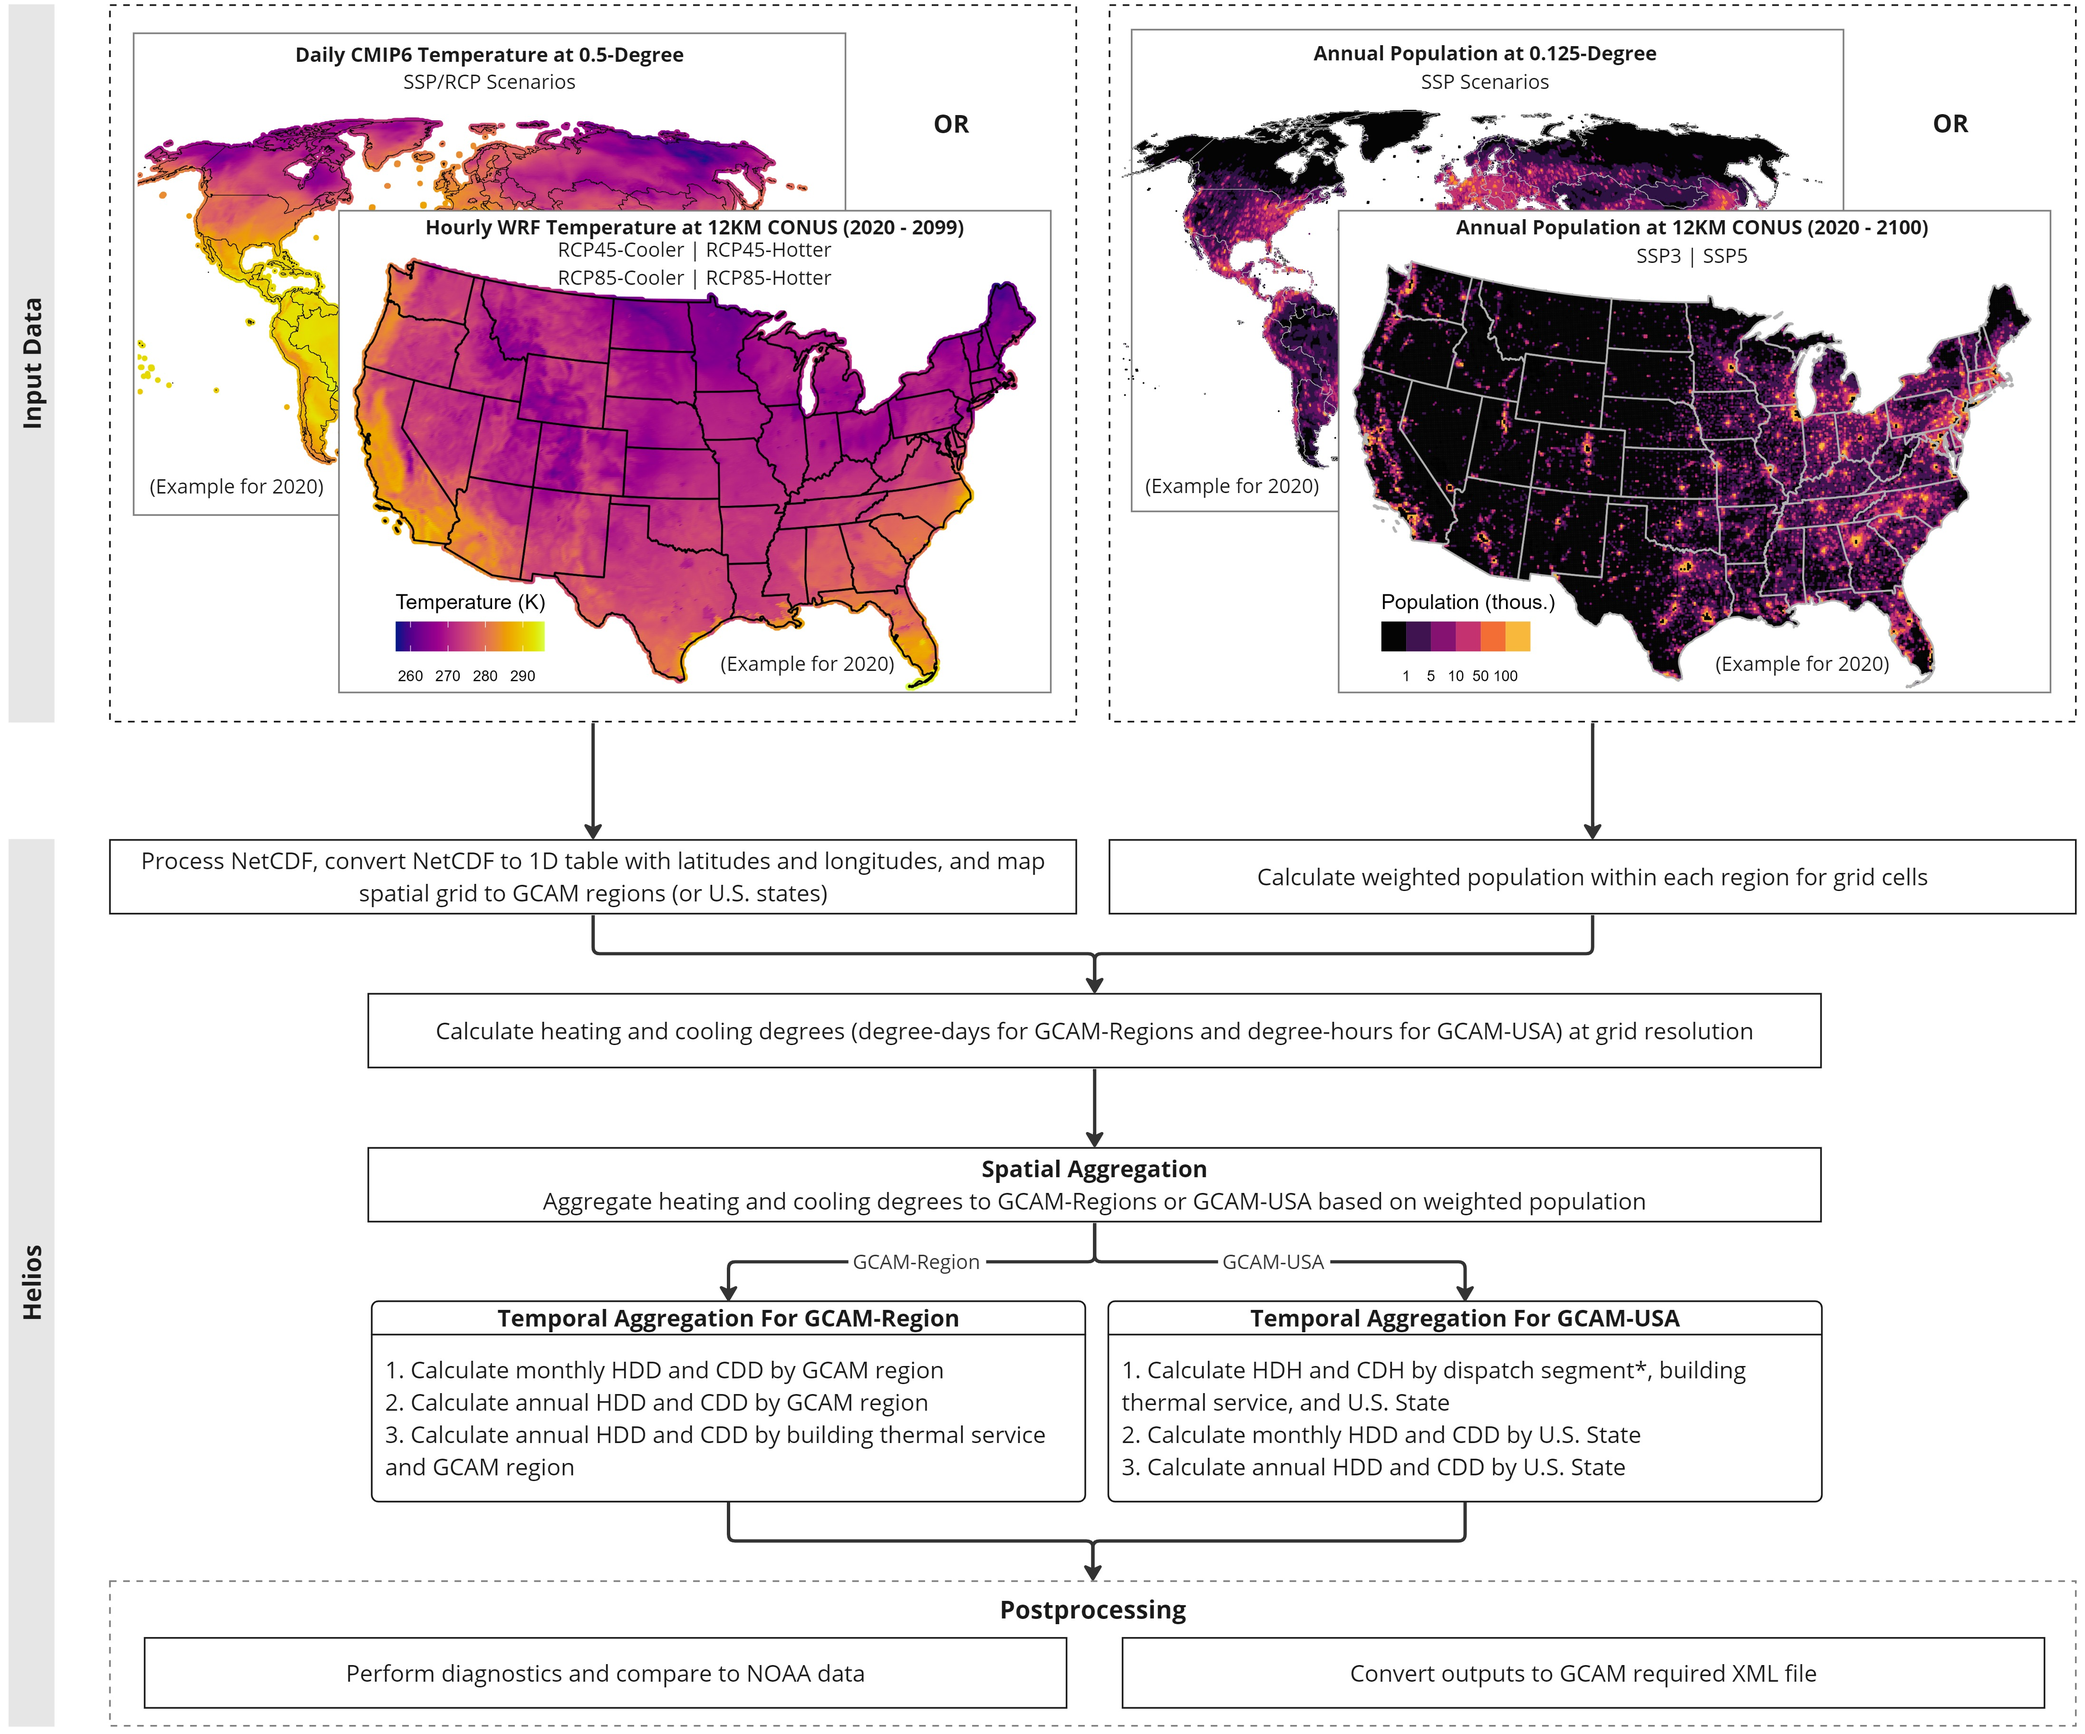
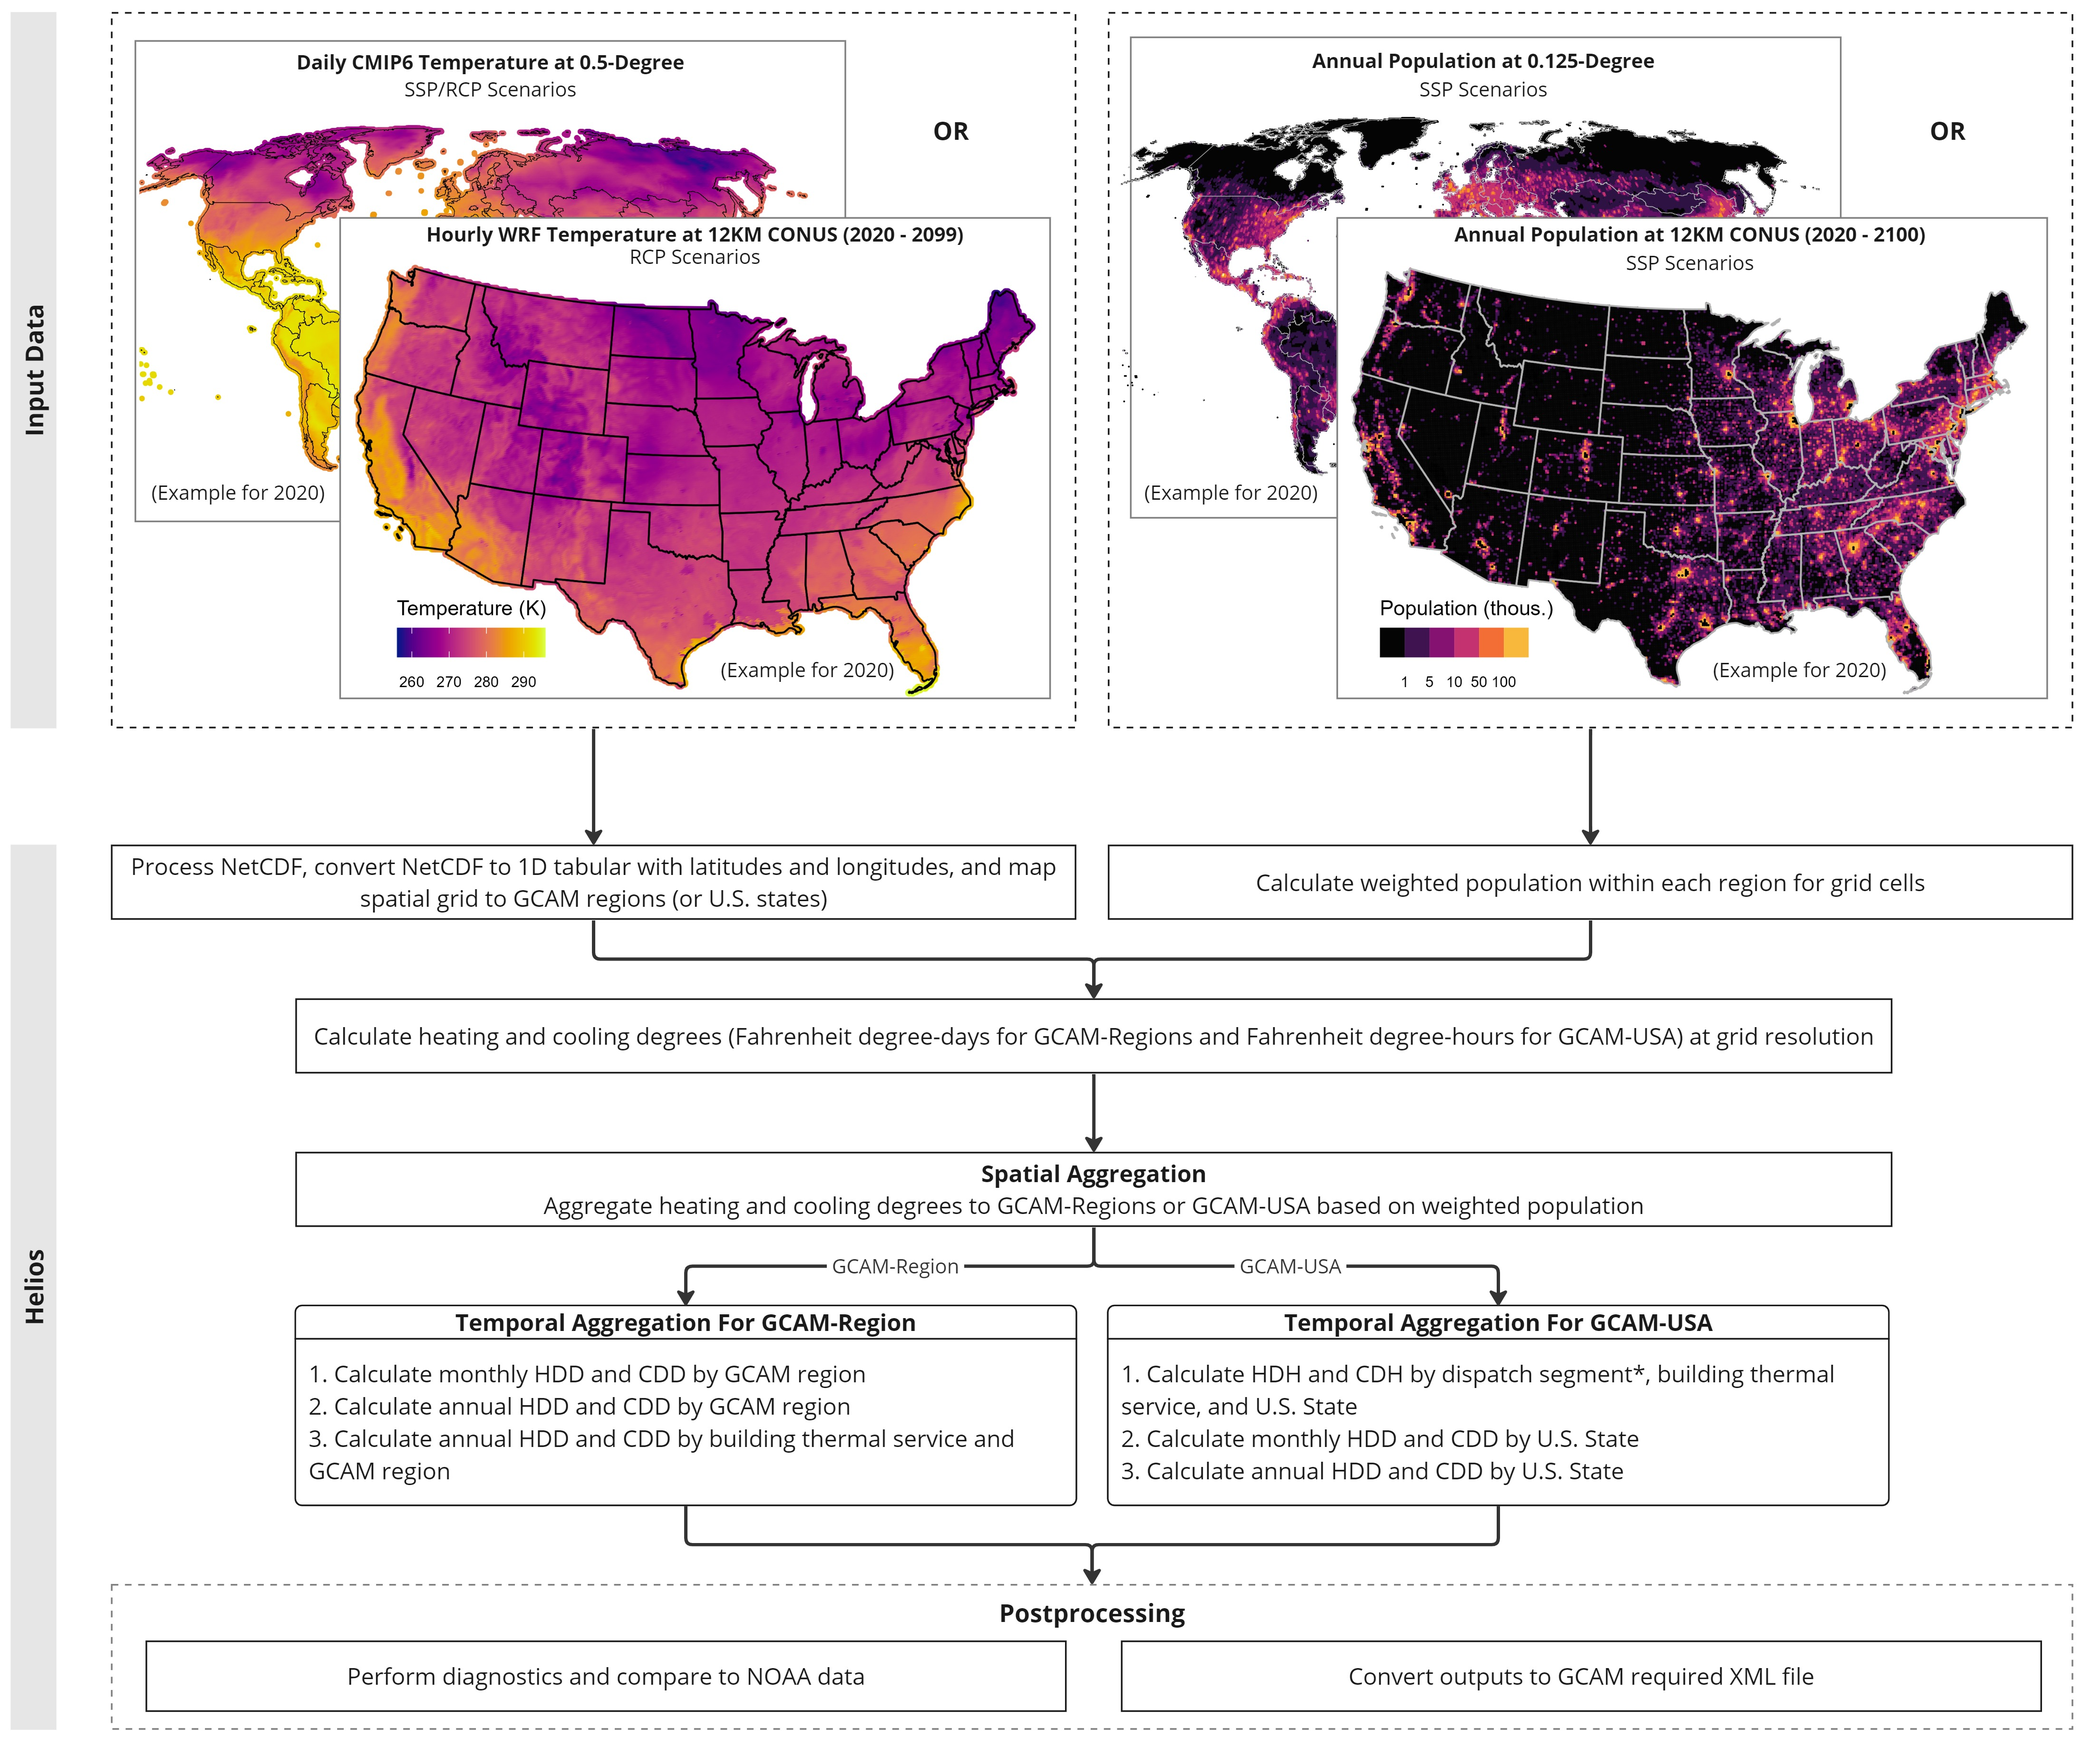
Update paper

diff --git a/paper/paper.md b/paper/paper.md
@@ -35,13 +35,13 @@ bibliography: paper.bib
 
 # Statement of Field
 
-Heating and cooling degree days are commonly used as meteorological indices in the energy system to measure the temperature deviations from the reference temperature over time. These indices are widely calculated at point scale rather than spatial scale. With the increasing availability of spatially distributed climate data, few tools are developed to access and post-process it from the original climate data format into tabular format, such as `Climate4R` [@iturbide2019].However, there are rarely well-documented and open-source tools that streamline the calculation of population-weighted HDD and CDD at user-defined spatiotemporal resolutions or electricity dispatch sectors defined in GCAM, directly using gridded climate and population data. `helios` is developed to integrate these workflows and standardize the output for easy usage within and beyond GCAM applications.
+Heating and cooling degree days are commonly used as meteorological indices in the energy system to measure the temperature deviations from the reference temperature over time. These indices are widely calculated at point scale rather than spatial scale. With the increasing availability of spatially distributed climate data, few tools are developed to access and post-process the raw climate data format into tabular format, such as `Climate4R` [@iturbide2019].However, there are rarely well-documented and open-source tools that streamline the calculation of population-weighted HDD and CDD at user-defined spatiotemporal resolutions or electricity dispatch sectors defined in GCAM, directly using gridded climate and population data. `helios` is developed to integrate these workflows and standardize the output for easy usage within and beyond GCAM applications.
 
 # Design and Functionality
 
 `helios` is designed to provide heating and cooling degrees to GCAM (or GCAM-USA) at two spatiotemporal scales: (1) HDH and CDH for the U.S. States for dispatch segments by building thermal service (for GCAM-USA); (2) annual HDD and CDD for GCAM's 32 geopolitical regions at 5-year time step by building thermal service (for GCAM-Regions). Beyond providing information for GCAM, `helios` can serve as a general tool to calculate heating and cooling degrees at a monthly time step and various spatial scales (e.g., country, basin). The use of `helios` requires users to provide information about the input files, such as the climate model source for climate data and the variable name for temperature. For example, the ISIMIP-CMIP data uses "tas" for the variable name for temperature while the WRF data uses "T2". Figure 1 shows the workflow for both GCAM-USA and GCAM-Regions. More details can be accessed in the `helios` [documentation](https://jgcri.github.io/helios/index.html) page on Github.
 
-![The Helios workflow using two input data examples of global and CONUS data. Helios takes in various temperature and population data at regional or global scales and processes the data into population-weighted heating and cooling degrees at a user-defined spatiotemporal scale. \label{fig:1}](Fig1_helios_workflow.jpg)
+![An example of the Helios workflow using two types of input datasets (e.g., global data from CMIP6 and CONUS data from WRF). This demonstration showcases Helios' capability to generate heating and cooling degrees by GCAM region or U.S. States, among other spatiotemporal scales. \label{fig:1}](Fig1_helios_workflow.jpg)
 
 Working with climate data can pose challenges, given large data sizes and diverse formats, spatiotemporal resolutions, data structures, and dimensions involved. The `helios` package provides functionality that makes it more convenient for users to manipulate climate data. `helios` provides easier access to various climate data types in a simplified format, facilitates the calculation of heating and cooling degrees using a standardized methodology, and ensures quality control through detailed diagnostics. There are five main functions provided by `helios`:
 
